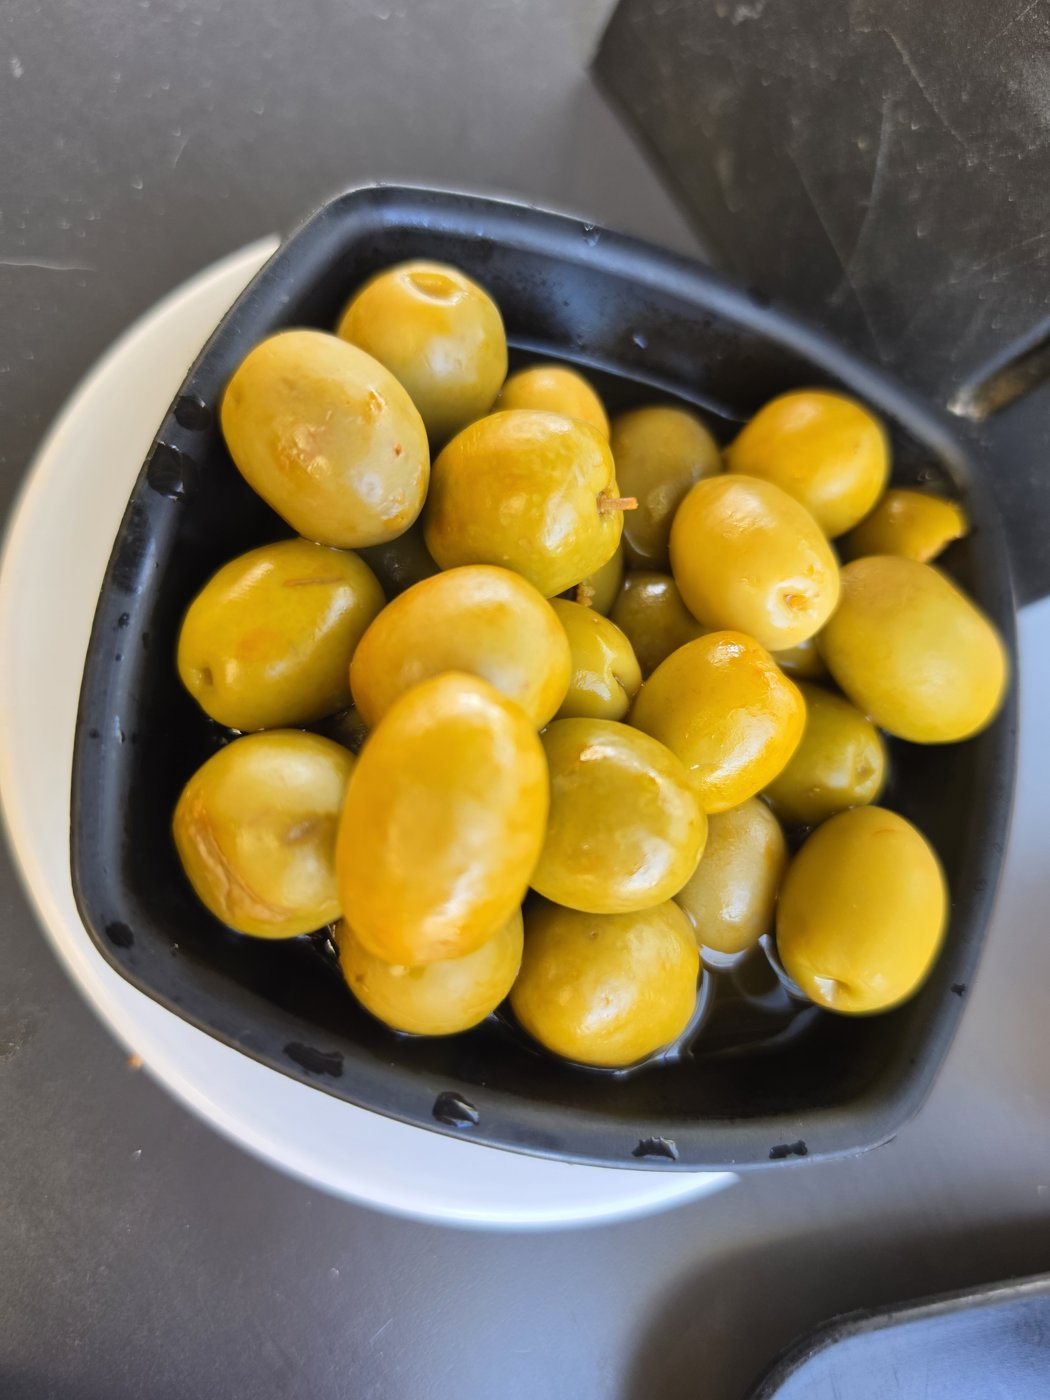
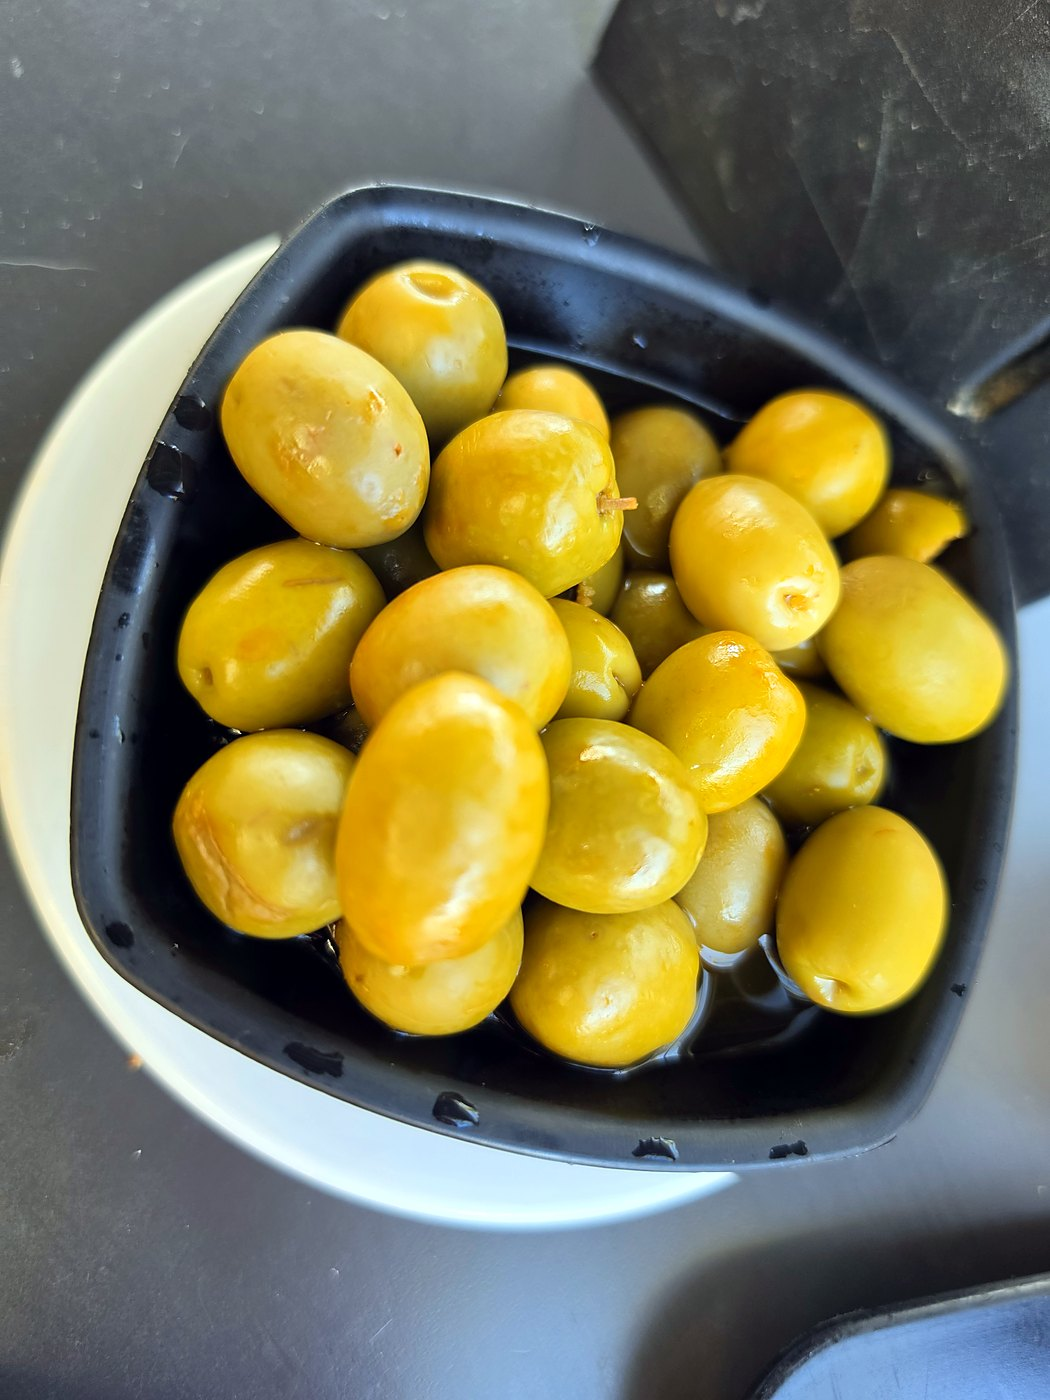
Borrador 100 Montaditos: fotos corregidas, tono amable, @100montaditos; tools/enhance.py
Claude-Session: https://claude.ai/code/session_01GhBK2YVmfS443snH6m47yU

diff --git a/content/resenas/100-montaditos-madrid.md b/content/resenas/100-montaditos-madrid.md
@@ -6,10 +6,10 @@ place: 100 Montaditos
 city: Madrid, España
 category: Cervecería
 rating: 2.5
-instagram:
+instagram: 100montaditos
 map_query: 100 Montaditos Alberto Alcocer Madrid
 cover: /img/100-montaditos/mesa.jpg
-excerpt: "Mi primera comida en Madrid: buen ambiente y precios bajos, pero el servicio dejó mucho que desear."
+excerpt: "Mi primera comida en Madrid: buen ambiente y precios accesibles; en el servicio hay una oportunidad."
 price_pp: "10 € por persona"
 price: {min: 10, currency: EUR}
 fx: {"date": "2026-11-11", "source": "Exchange API (fawazahmed0), datos diarios", "rates": {"MXN": 20.743663, "USD": 1.116215, "CNY": 7.449952}}
@@ -23,7 +23,7 @@ order:
   - "Montaditos variados de la carta Euromanía para probar varios"
 avoid_title: "A considerar"
 avoid:
-  - "Si buscas buen servicio, esta sucursal no fue la mejor experiencia"
+  - "Es un lugar concurrido: la atención puede variar según el momento"
 gallery:
   - [/img/100-montaditos/mesa.jpg, "Montaditos con papas, aceitunas y cerveza"]
   - [/img/100-montaditos/cerveza.jpg, "La cerveza, bien fría"]
@@ -52,9 +52,9 @@ En nuestra visita, la carta tenía la promoción Euromanía, con montaditos desd
 
 ## A mejorar
 
-- **El servicio.** Nos tocó un camarero con mala actitud, incluso con sus propios compañeros. No me gustaría generalizar: es una cadena grande y esta fue nuestra experiencia en esta sucursal.
+- **El servicio.** El día de nuestra visita, la atención de uno de los camareros no fue la más amable, y se notaba tensión con sus compañeros. No me gustaría generalizar: es una cadena grande, el lugar estaba lleno y esta fue solo nuestra experiencia en esta sucursal.
 - **El sabor.** Correcto, ni muy bueno ni malo.
 
 ## Veredicto
 
-Una opción barata para unas cervezas y algo rápido, con buen ambiente. Pero el servicio que nos tocó pesó mucho, y en Madrid hay lugares mejores, así que probablemente no volvería.
+Una opción accesible para unas cervezas y algo rápido, con buen ambiente. Para mí el servicio es lo más importante y esta vez no nos tocó el mejor día; con tantas opciones en Madrid, probablemente probaría otros lugares antes de volver.

diff --git a/content/i18n/zh/resenas/100-montaditos-madrid.md b/content/i18n/zh/resenas/100-montaditos-madrid.md
@@ -2,7 +2,7 @@
 title: "100 Montaditos，马德里：真实点评"
 city: 西班牙 · 马德里
 category: 啤酒馆
-excerpt: "我在马德里的第一餐：氛围热闹、价格便宜，但服务差强人意。"
+excerpt: "我在马德里的第一餐：氛围热闹、价格实惠，服务还有提升空间。"
 reservation: "不需要。当天无需等位，不过我觉得是运气好：这里经常满座"
 ideal_for: "喝几杯啤酒、简单吃点东西"
 would_return: "大概不会：马德里有更好的选择"
@@ -11,7 +11,7 @@ order:
   - "从 Euromanía 菜单里多点几种 montadito 尝尝"
 avoid_title: "温馨提示"
 avoid:
-  - "如果你很看重服务，这家分店的体验不算好"
+  - "店里人多，服务可能因时段而异"
 captions:
   - "Montadito 小三明治配薯片、橄榄和啤酒"
   - "冰镇啤酒"
@@ -36,9 +36,9 @@ captions:
 
 ## 有待改进
 
-- **服务。** 我们遇到一位态度很差的服务员，连对同事也是如此。我不想以偏概全：这是一家大型连锁店，这只是我们在这家分店的体验。
+- **服务。** 我们到访那天，其中一位服务员不太友善，和同事之间也能感觉到紧张气氛。我不想以偏概全：这是一家大型连锁店，当时店里满座，这只是我们在这家分店的体验。
 - **味道。** 中规中矩，不算好也不算差。
 
 ## 结论
 
-想喝几杯啤酒、简单吃点东西的话，这里便宜、氛围好。但这次的服务影响很大，而且马德里有更好的地方，所以我大概不会再去。
+想喝几杯啤酒、简单吃点东西的话，这里实惠、氛围好。对我来说服务最重要，这次没遇上他们状态最好的一天；马德里选择很多，再来之前我大概会先试试别的地方。
